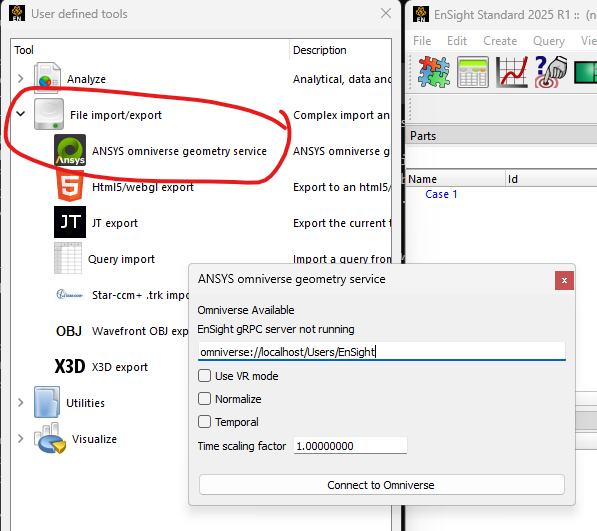
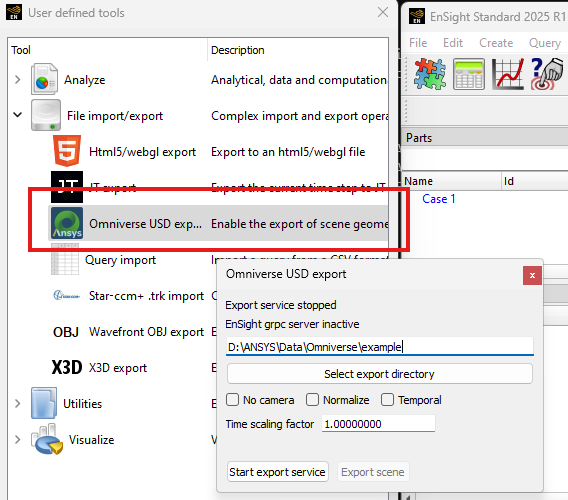
Update the Omniverse module docs
Update the "omniverse" overview page to reflect the new API.
Fix typos in the docs from the older URI approach.
Update the extension versions to match release version.

diff --git a/src/ansys/pyensight/core/utils/omniverse.py b/src/ansys/pyensight/core/utils/omniverse.py
@@ -44,7 +44,7 @@ class Omniverse:
     >>> from ansys.pyensight.core import LocalLauncher
     >>> session = LocalLauncher().start()
     >>> ov = session.ensight.utils.omniverse
-    >>> ov.create_connection()
+    >>> ov.create_connection(r"D:\Omniverse\Example")
     >>> ov.update()
     >>> ov.close_connection()
 
@@ -202,8 +202,8 @@ class Omniverse:
         Parameters
         ----------
         omniverse_path : str
-            The URI to the Omniverse server. It will look like this:
-            "omniverse://localhost/Users/test"
+            The directory name where the USD files should be saved. For example:
+            "C:/Users/test/OV/usdfiles"
         include_camera : bool
             If True, apply the EnSight camera to the Omniverse scene.  This option
             should be used if the target viewer is in AR/VR mode.  Defaults to False.

diff --git a/doc/source/user_guide/omniverse_info.rst b/doc/source/user_guide/omniverse_info.rst
@@ -17,20 +17,10 @@ ansys.tools.omniverse.dsgui kit extensions.
 The Python API is defined here: :class:`Omniverse<ansys.pyensight.core.utils.omniverse.Omniverse>`.
 
 
-Omniverse System Configuration
-------------------------------
-
-To use this functionality, a local installation of Omniverse is required.
-Please `install Omniverse <https://docs.omniverse.nvidia.com/install-guide/>`_ along
-with one application like "Create" or "View" on your local system before
-attempting to use this interface.
-
-
 PyEnSight and EnSight Python API
-^^^^^^^^^^^^^^^^^^^^^^^^^^^^^^^^
+--------------------------------
 
-The ``omniverse`` pyensight module will look for and leverage locally installed
-Omniverse to provide its APIs. If you are using the
+If you are using the
 `ansys-pyensight-core <https://pypi.org/project/ansys-pyensight-core/>`_ module
 in your own python, one can just use the API like this:
 
@@ -40,9 +30,9 @@ in your own python, one can just use the API like this:
     s = LocalLauncher(batch=False).start()
     s.load_example("waterbreak.ens")
     # Start a new connection between EnSight and Omniverse
-    uri = "omniverse://localhost/Users/water"
-    s.ensight.utils.omniverse.create_connection(uri)
-    # Do some more work...
+    directory = "/omniverse/examples/water"
+    s.ensight.utils.omniverse.create_connection(directory)
+    # Do some work...
     # Push a scene update
     s.ensight.utils.omniverse.update()
 
@@ -52,9 +42,10 @@ in your own python, one can just use the API like this:
     The ``batch=False`` option used in the examples causes the EnSight
     GUI to be displayed together with the Omniverse Composer GUI.
 
-    Also, care must be taken to close the EnSight session before
-    exiting an Omniverse application hosting a PyEnSight session or is
-    it possible to leave the EnSight instance running.
+    It is possible to run a pyensight script from inside of an Omniverse
+    kit application.  In this case, care must be taken to close the EnSight
+    session before exiting the Omniverse application hosting the PyEnSight
+    session or is it possible to leave the EnSight instance running.
 
 
 From inside an EnSight session, the API is similar:
@@ -67,49 +58,50 @@ From inside an EnSight session, the API is similar:
     options = {"host": "127.0.0.1", "port": str(grpc_port)}
     if security:
         options["security"] = security
-    uri = "omniverse://localhost/Users/water"
-    ensight.utils.omniverse.create_connection(uri, options=options)
+    directory = "/omniverse/examples/water"
+    ensight.utils.omniverse.create_connection(directory, options=options)
     # Do some more work...
     # Push a scene update
     ensight.utils.omniverse.update()
 
 
-After running the script, the scene will appear in the Nucleus tree view as
-``User/water``.  The file ``dsg_scene.usd`` can be loaded into Composer.  The
-``ensight.utils.omniverse.update()`` command can be used to update the
-USD data in Omniverse, reflecting any recent changes in the EnSight scene.
+After running the script, the scene will appear in any Omniverse kit tree view
+under the specified directory.  The file ``dsg_scene.usd`` can be loaded into
+Composer.  The ``ensight.utils.omniverse.update()`` command can be used to update
+the USD data in Omniverse, reflecting any recent changes in the EnSight scene.
 
 Starting with 2025 R1, one can also access Omniverse via an EnSight
 user-defined tool:
 
 .. image:: /_static/omniverse_tool.png
 
-This tool will only be available if EnSight detects an installed copy
-of Omniverse.  Clicking on "Connect to Omniverse" executes something
+Clicking on "Start export service" executes something
 similar to the previous Python snippet and the button will change to
-a mode where it just executes ``ensight.utils.omniverse.update()``.
+a mode where it just executes ``ensight.utils.omniverse.update()``
+when the "Export scene" button is clicked.
+
+.. note::
+    Several of the options are locked in once the service is started.
+    To change options like "Temporal", the service must often be stopped
+    and restarted using this dialog.
 
 
-PyEnSight/Omniverse kit from Within an Omniverse Application
-^^^^^^^^^^^^^^^^^^^^^^^^^^^^^^^^^^^^^^^^^^^^^^^^^^^^^^^^^^^^
+PyEnSight/Omniverse kit from an Omniverse Kit Application
+---------------------------------------------------------
 
-To install the service (and the pyensight module) into an Omniverse
-application, one can install is via the third party extensions dialog.
-Select the ``Extensions`` option from the ``Window`` menu.  Select
-third party extensions and filter by ``ANSYS``.  Enabling the extension
-will install it, along with the ansys.pyensight.core module.
+To install the service into an Omniverse application, one can install
+it via the third party extensions dialog. Select the ``Extensions`` option
+from the ``Window`` menu.  Select third party extensions and filter
+by ``ANSYS``.  Enabling the extension will install the kit extension.
+The kit extension will find the most recent Ansys install and use the
+version of the pyensight found in the install to perform export
+operations.
 
 .. image:: /_static/omniverse_extension.png
 
-At this point, the same pyensight script run in the Omniverse
-``Script Editor`` panel can be used to connect to
-an EnSight session or the GUI panel can be used to connect to a
-copy of EnSight that was launched with the ``-grpc_server {port}``
-option specified.
-
 The ``ansys.tools.omniverse.dsgui`` kit includes a GUI similar to the
 EnSight 2025 R1 user-defined tool.  It allows one to select a
-target URI in Omniverse and the details of a gRPC connection
+target directory and the details of a gRPC connection
 to a running EnSight.  For example, if one launches EnSight with
 ``ensight.bat -grpc_server 2345``, then the uri:  ``grpc://127.0.0.1:2345``
 can to used to request a locally running EnSight to push the current
@@ -123,88 +115,67 @@ scene to Omniverse.
     ``git://github.com/ansys/pyensight.git?branch=main&dir=exts``.
 
 
-Developers: Running development builds
---------------------------------------
+Developers: Running via the Command Line
+----------------------------------------
 
-There are several different ways for developers working on these
-features to debug and test them.  There is a command line approach
-perhaps more suited to the pyensight developer and there is an
-Omniverse tool GUI approach that can be useful when looking to
-develop/extend the UI kits.
+There is an omniverse_cli module included in the pyensight install.
+This module can be used to execute any service operation from the
+command line.  The Python included in the EnSight distribution
+includes this module as well. Assuming the pyensight repo has been
+cloned to: ``D:\repos\pyensight`` the following can be run in a
+Python virtual environment that was used to build the module and
+has it installed:
 
-
-From the Command Line
-^^^^^^^^^^^^^^^^^^^^^
-
-Omniverse kits can be run as command line tools and
-the ``ansys.tools.omniverse.core`` is designed to support this mode
-of operation as well.  For this to work, one needs a copy of the
-pyensight wheel and the name of a ``kit`` executable. The pyensight wheel
-can be built by checking out the repo and building it. One can
-find the location of a kit via the ``Omniverse Launcher`` application
-using the ``Settings`` option:
-
-.. image:: /_static/omniverse_create_location.png
-
-Consider an example where the create app has been installed and the
-file ``C:\Users\user1\AppData\Local\ov\pkg\create-2023.2.5\kit.bat``
-exists.  A copy of the pyensight repo is located and built here:
-``D:\repos\pyensight``.  With these conditions, one can run the extension
-from the command line like this:
 
 .. code-block:: bat
 
-    cd "C:\Users\user1\AppData\Local\ov\pkg\create-2023.2.5"
-    .\kit.bat --ext-folder "D:\repos\pyensight\src\ansys\pyensight\core\exts" --enable ansys.tools.omniverse.core --/exts/ansys.tools.omniverse.core/help=1
+    cd "D:\repos\pyensight"
+    .\venv\Scripts\activate.ps1
+    python -m build
+    python -m pip install .\dist\ansys_pyensight_core-0.9.0.dev0-py3-none-any.whl
+    python -m ansys.pyensight.core.utils.omniverse_cli -h
 
 
-Will generate the following output in the logs:
+Will generate the following output:
 
 .. code-block::
+    usage: omniverse_cli.py [-h] [--verbose verbose_level] [--log_file log_filename] [--dsg_uri DSG_URI]
+                            [--security_token token] [--monitor_directory glb_directory] [--time_scale time_scale]
+                            [--normalize_geometry yes|no|true|false|1|0] [--include_camera yes|no|true|false|1|0]
+                            [--temporal yes|no|true|false|1|0] [--oneshot yes|no|true|false|1|0]
+                            destination
 
-    ANSYS Tools Omniverse Core:: ansys.tools.omniverse.core-0.1.0
-      --/exts/ansys.tools.omniverse.core/help=1
-         Display this help.
-      --/exts/ansys.tools.omniverse.core/run=1
-         Run the server.
-      --/exts/ansys.tools.omniverse.core/omniUrl=URL
-         Omniverse pathname.  (default: omniverse://localhost/Users/test)
-      --/exts/ansys.tools.omniverse.core/dsgUrl=URL
-         Dynamic Scene Graph connection URL.  (default: grpc://127.0.0.1:5234)
-      --/exts/ansys.tools.omniverse.core/securityCode=TOKEN
-         Dynamic Scene Graph security token.  (default: )
-      --/exts/ansys.tools.omniverse.core/temporal=0|1
-         If non-zero, include all timeseteps in the scene.  (default: False)
-      --/exts/ansys.tools.omniverse.core/vrmode=0|1
-         If non-zero, do not include a camera in the scene.  (default: False)
-      --/exts/ansys.tools.omniverse.core/normalizeGeometry=0|1
-         If non-zero, remap the geometry to the domain [-1,-1,-1]-[1,1,1].  (default: False)
+    PyEnSight Omniverse Geometry Service
+
+    positional arguments:
+      destination           The directory to save the USD scene graph into.
+
+    options:
+      -h, --help            show this help message and exit
+      --verbose verbose_level
+                            Enable logging information (0-3). Default: 0
+      --log_file log_filename
+                            Save logging output to the named log file instead of stdout.
+      --dsg_uri DSG_URI     The URI of the EnSight Dynamic Scene Graph server. Default: grpc://127.0.0.1:5234
+      --security_token token
+                            Dynamic scene graph API security token. Default: none
+      --monitor_directory glb_directory
+                            Monitor specified directory for GLB files to be exported. Default: none
+      --time_scale time_scale
+                            Scaling factor to be applied to input time values. Default: 1.0
+      --normalize_geometry yes|no|true|false|1|0
+                            Enable mapping of geometry to a normalized Cartesian space. Default: false
+      --include_camera yes|no|true|false|1|0
+                            Include the camera in the output USD scene graph. Default: true
+      --temporal yes|no|true|false|1|0
+                            Export a temporal scene graph. Default: false
+      --oneshot yes|no|true|false|1|0
+                            Convert a single geometry into USD and exit. Default: false
 
 
-Documenting the various kit command line options.  Using the ``run=1`` option will launch the server from
-from the command line.  This version of the service will be run using the version of the pyensight module
-installed in the specified ``--ext-folder``.  When run as above, the service will use the
-latest released of the ansys.pyensight.core wheel.  It is important the the ``--ext-folder`` option
-point to the ``exts`` directory inside of the ``ansys\pyensight\core`` directories as this will
-cause the kit to use the ``ansys.tools.omniverse.core`` module from the directories above the kit
-instead of the any version installed in the kit Python itself.
-
-
-From an Omniverse Application GUI
-^^^^^^^^^^^^^^^^^^^^^^^^^^^^^^^^^
-
-This approach is very similar to the CLI approach in that one needs to get the GUI application
-to use the kit from either a source code checkout or perhaps from a local EnSight install.
-In either case, the key point is to add the same directory pointed out earlier to the GUI application.
-
-For example, if one has a copy of the pyensight repo checked out as in the previous CLI example, the
-key directory will be ``D:\repos\pyensight\src\ansys\pyensight\core\exts``.  This pathname can be
-added to the extensions path in an application like "Composer" through this GUI:
-
-.. image:: /_static/omniverse_app_paths.png
-
-With the path in place, the kits will show up in the Third-party extensions list and can be
-activated in the GUI.
-
-.. image:: /_static/omniverse_app_exts.png
+Documenting the various command line options.  To start the server, specify the ``destination`` directory
+where the resulting USD files should be saved and provide the correct URI to the ``--dsg_uri`` option
+needed to connect to the EnSight DSG server.  The service will continue to monitor the EnSight
+session, pushing geometry updated as specified by the EnSight session until the EnSight session
+is stopped.  If only a single download/conversion is desired, the ``--oneshot 1`` option may be specified.
 

diff --git a/exts/ansys.tools.omniverse.core/docs/README.md b/exts/ansys.tools.omniverse.core/docs/README.md
@@ -1,11 +1,9 @@
 # ANSYS Tools Omniverse Core [ansys.tools.omniverse.core]
 
 The Omniverse extension provides a dynamic connection between an ANSYS
-geometry source (e.g. ANSYS EnSight) and an Omniverse instance.  The
-connection runs as a standalone service capable of supporting scripted
-execution utilizing just a kit CLI.  It can also be launched via
-PyEnSight and via a simple GUI provided by the [ansys.tools.omniverse.dsgui]
-kit extension.
+geometry source (e.g. ANSYS EnSight) and an Omniverse instance. It can
+also be launched via pyensight and via a simple GUI provided by
+the [ansys.tools.omniverse.dsgui] kit extension.
 
 For more details on this extension see:
 https://ensight.docs.pyansys.com/version/dev/user_guide/omniverse_info.html

diff --git a/exts/ansys.tools.omniverse.dsgui/docs/README.md b/exts/ansys.tools.omniverse.dsgui/docs/README.md
@@ -4,7 +4,7 @@ This Omniverse extension is a UI interface to the [ansys.tools.omniverse.core]
 kit extension.  It allows an Omniverse application user to connect to
 a running copy of ANSYS EnSight or other application that supports the
 Dynamic Scene Graph gRPC protocol.  The GUI allows for the remote scene
-to be pulled, on request,  into a specified Omniverse location.
+to be pulled, on request, into a specified location in USD format.
 
 
 For more details on this extension see:

diff --git a/exts/ansys.tools.omniverse.core/docs/CHANGELOG.md b/exts/ansys.tools.omniverse.core/docs/CHANGELOG.md
@@ -2,6 +2,8 @@
 
 The format is based on [Keep a Changelog](https://keepachangelog.com/en/1.0.0/).
 
+## [0.8.10] - 2024-09-17
+- Update for new pyensight Omniverse interface
 
 ## [0.1.0] - 2024-07-30
 - First version

diff --git a/exts/ansys.tools.omniverse.dsgui/docs/CHANGELOG.md b/exts/ansys.tools.omniverse.dsgui/docs/CHANGELOG.md
@@ -2,6 +2,8 @@
 
 The format is based on [Keep a Changelog](https://keepachangelog.com/en/1.0.0/).
 
+## [0.8.10] - 2024-09-17
+- Update for new pyensight Omniverse interface
 
 ## [0.1.0] - 2024-07-30
 - First version
